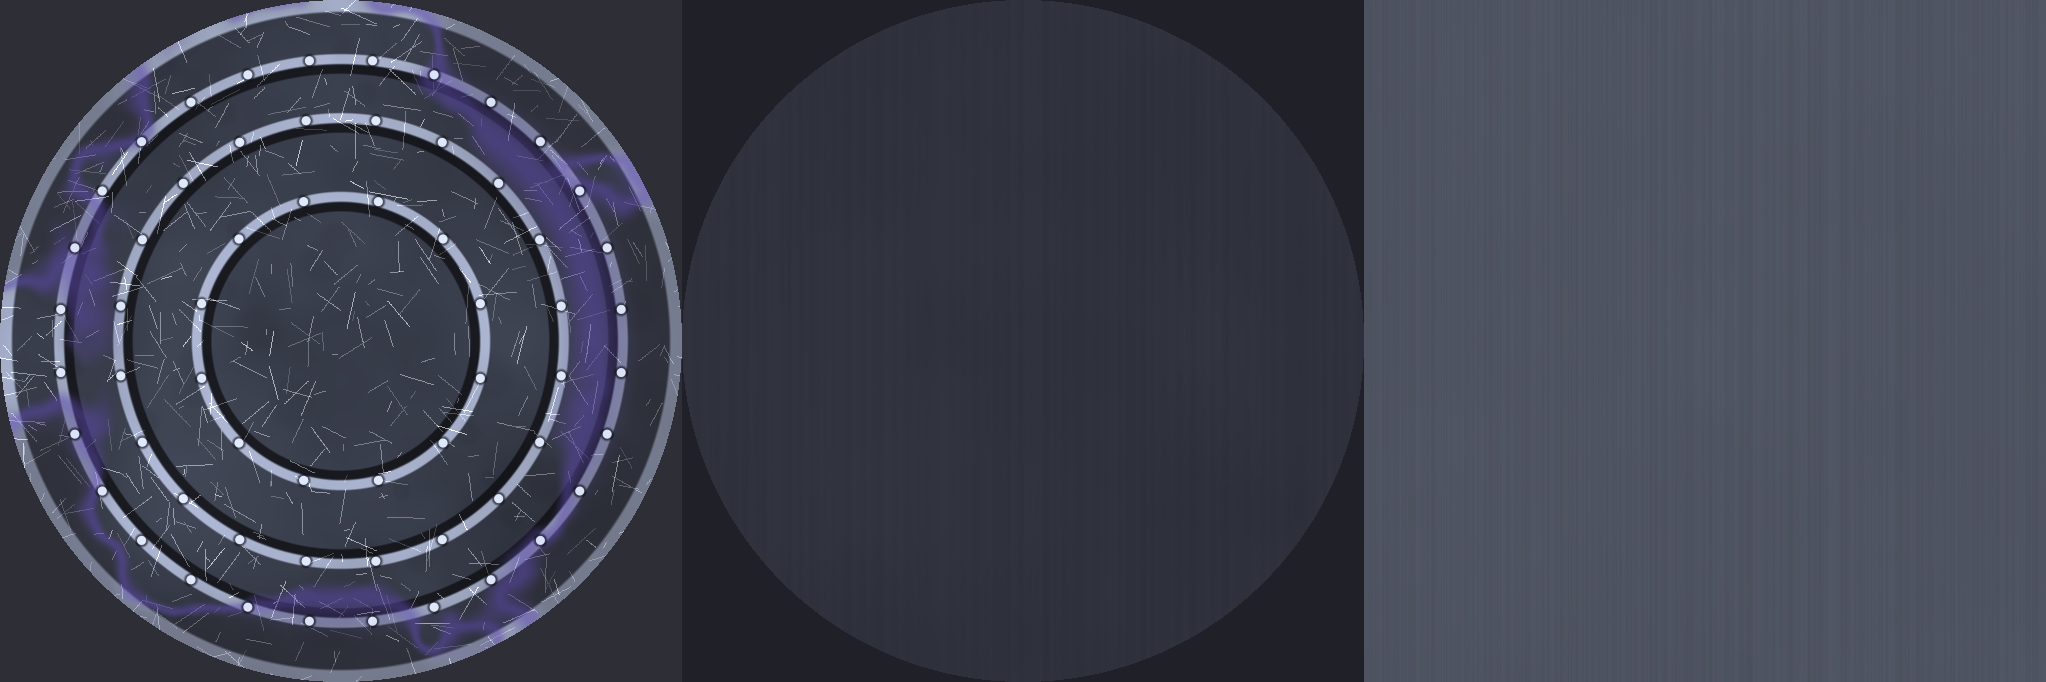
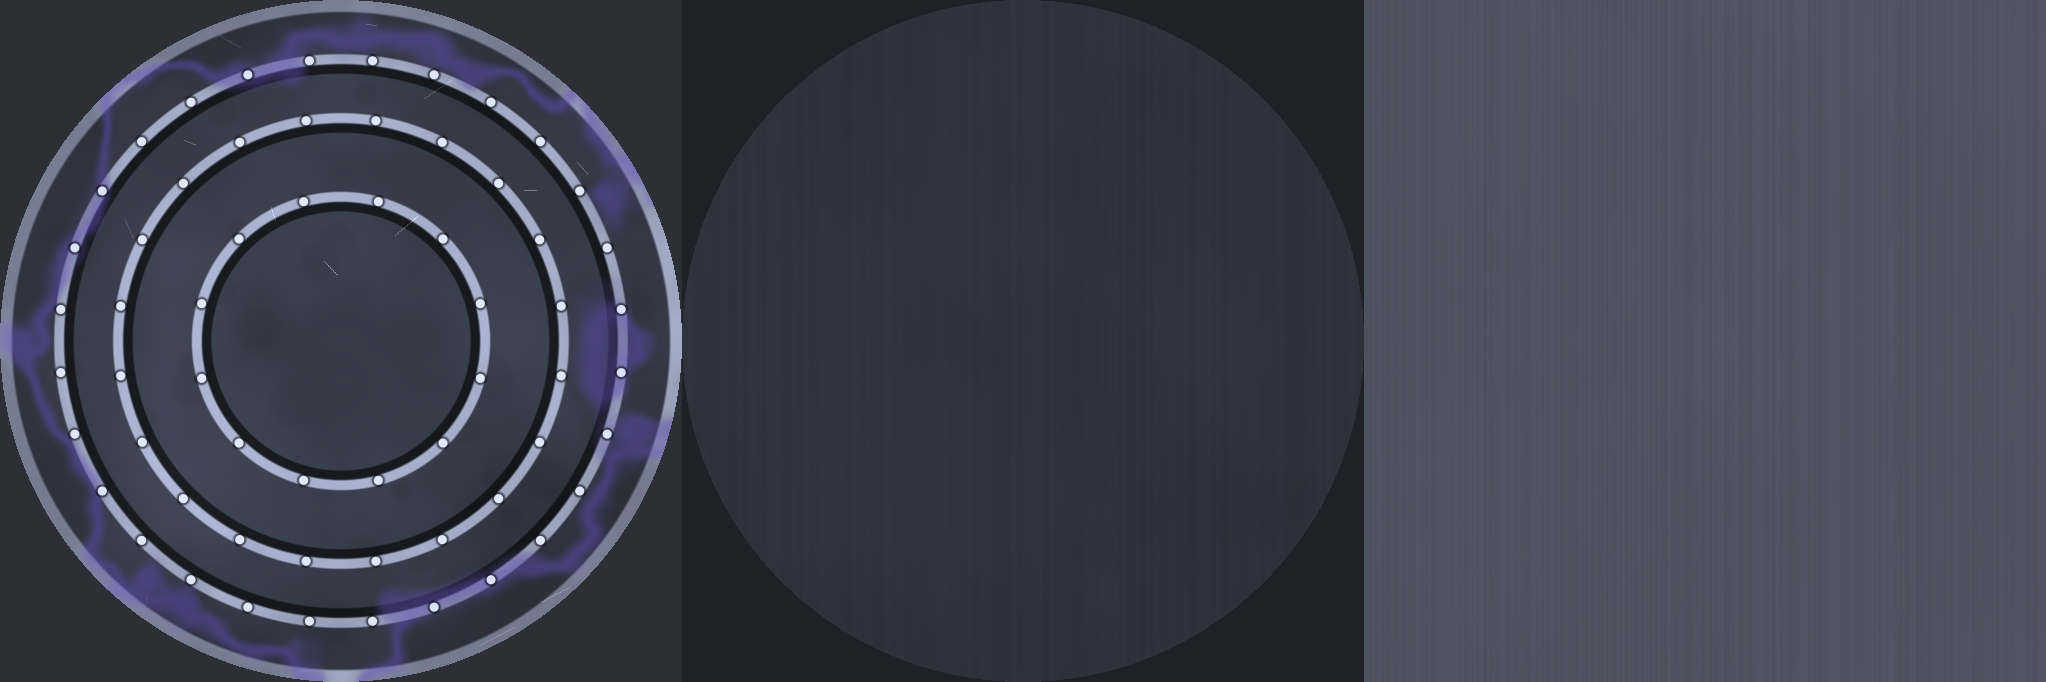
fix: shield front has a handful of faint scuffs instead of hundreds of scratches (reference: the Doom shield)

Changed region(s): [[0.0, 0.0, 0.3387, 1.0]]

diff --git a/tools/assetgen/shield_concepts.py b/tools/assetgen/shield_concepts.py
@@ -374,8 +374,12 @@ def paint_battle():
     # which is seen close up all the time, has none.
     dent_dark, dent_lip = (0.05, 0.0) if GAME_BAKE else (0.32, 0.14)     # no light crescents in the game: light marks are the rivets
     img = img * (1.0 - dents[..., None] * dent_dark) + lip[..., None] * dent_lip
-    heavy = gun_metal._scratches(SIZE, rng, 650)
-    img = steps(img, r, col(0.24, 0.25, 0.28), 0.6) + (scratch * 0.3 + heavy * (0.2 if GAME_BAKE else 0.28))[..., None]
+    if GAME_BAKE:
+        # As on the Doom shield this is modelled on: a handful of short, faint scuffs and nothing like a covering of scratches
+        marks = gun_metal._scratches(SIZE, rng, 16) * 0.16
+    else:
+        marks = scratch * 0.3 + gun_metal._scratches(SIZE, rng, 650) * 0.28
+    img = steps(img, r, col(0.24, 0.25, 0.28), 0.6) + marks[..., None]
     # scorching: soot, then the blue-purple a steel plate turns when it has been heated, round the edge
     heat = smooth(0.52, 0.80, gun_metal._fbm(SIZE, rng) + (r - 0.55) * 0.7) * smooth(0.45, 1.0, r)
     soot, soot_colour = (0.35, col(0.07, 0.07, 0.08)) if GAME_BAKE else (0.8, col(0.035, 0.035, 0.04))
